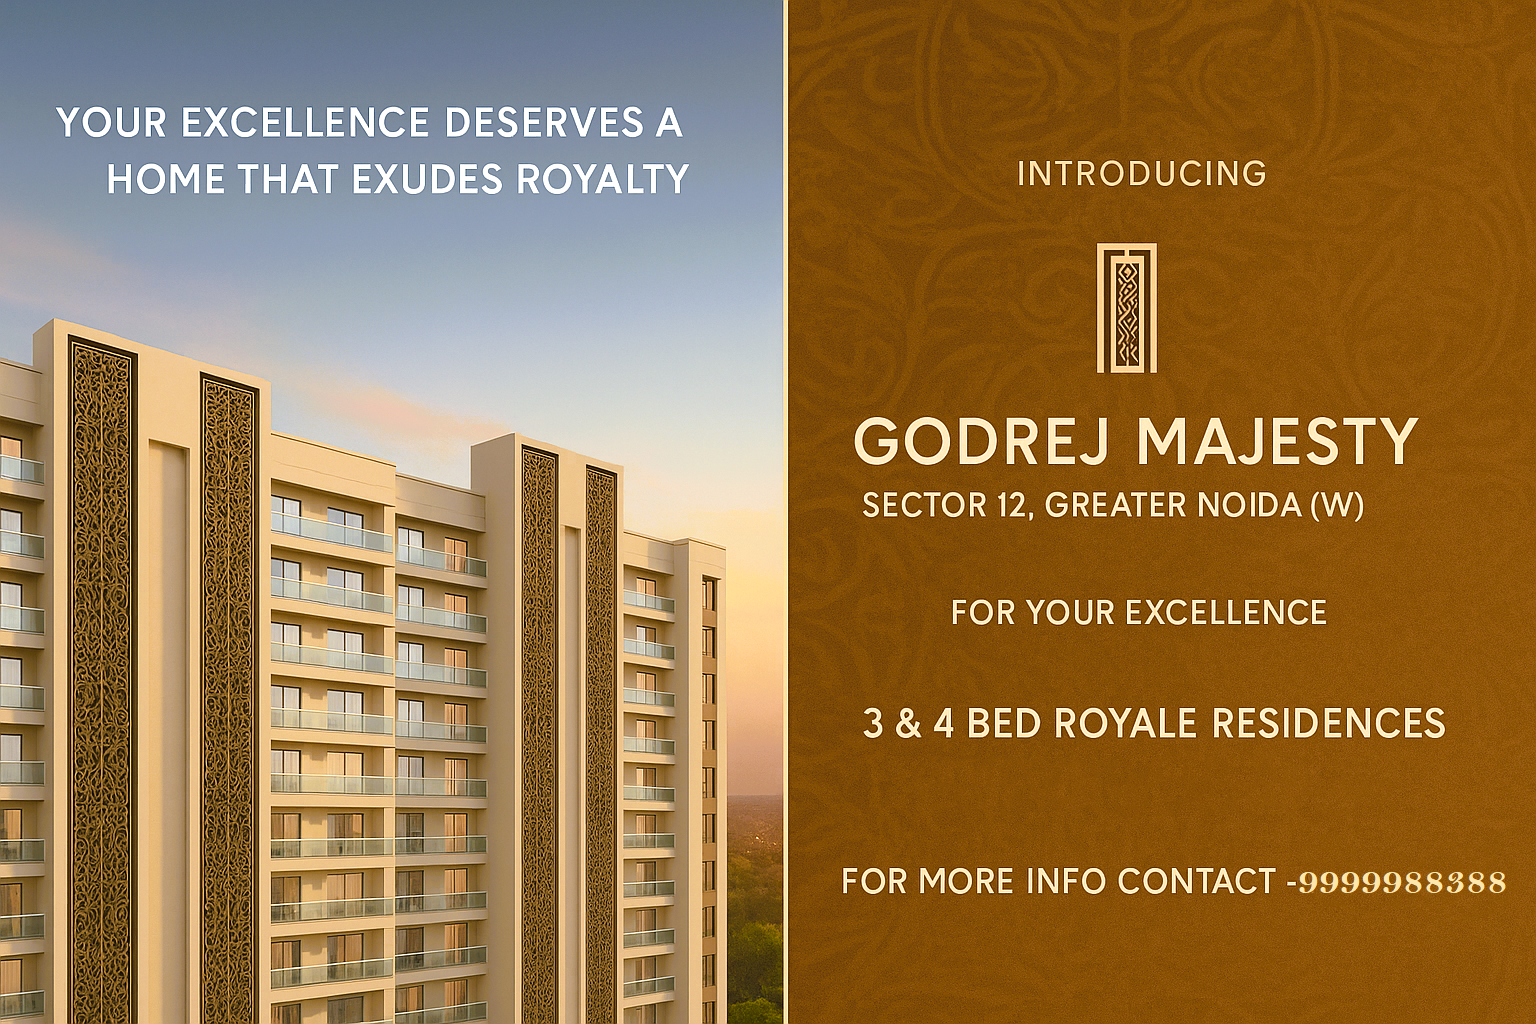
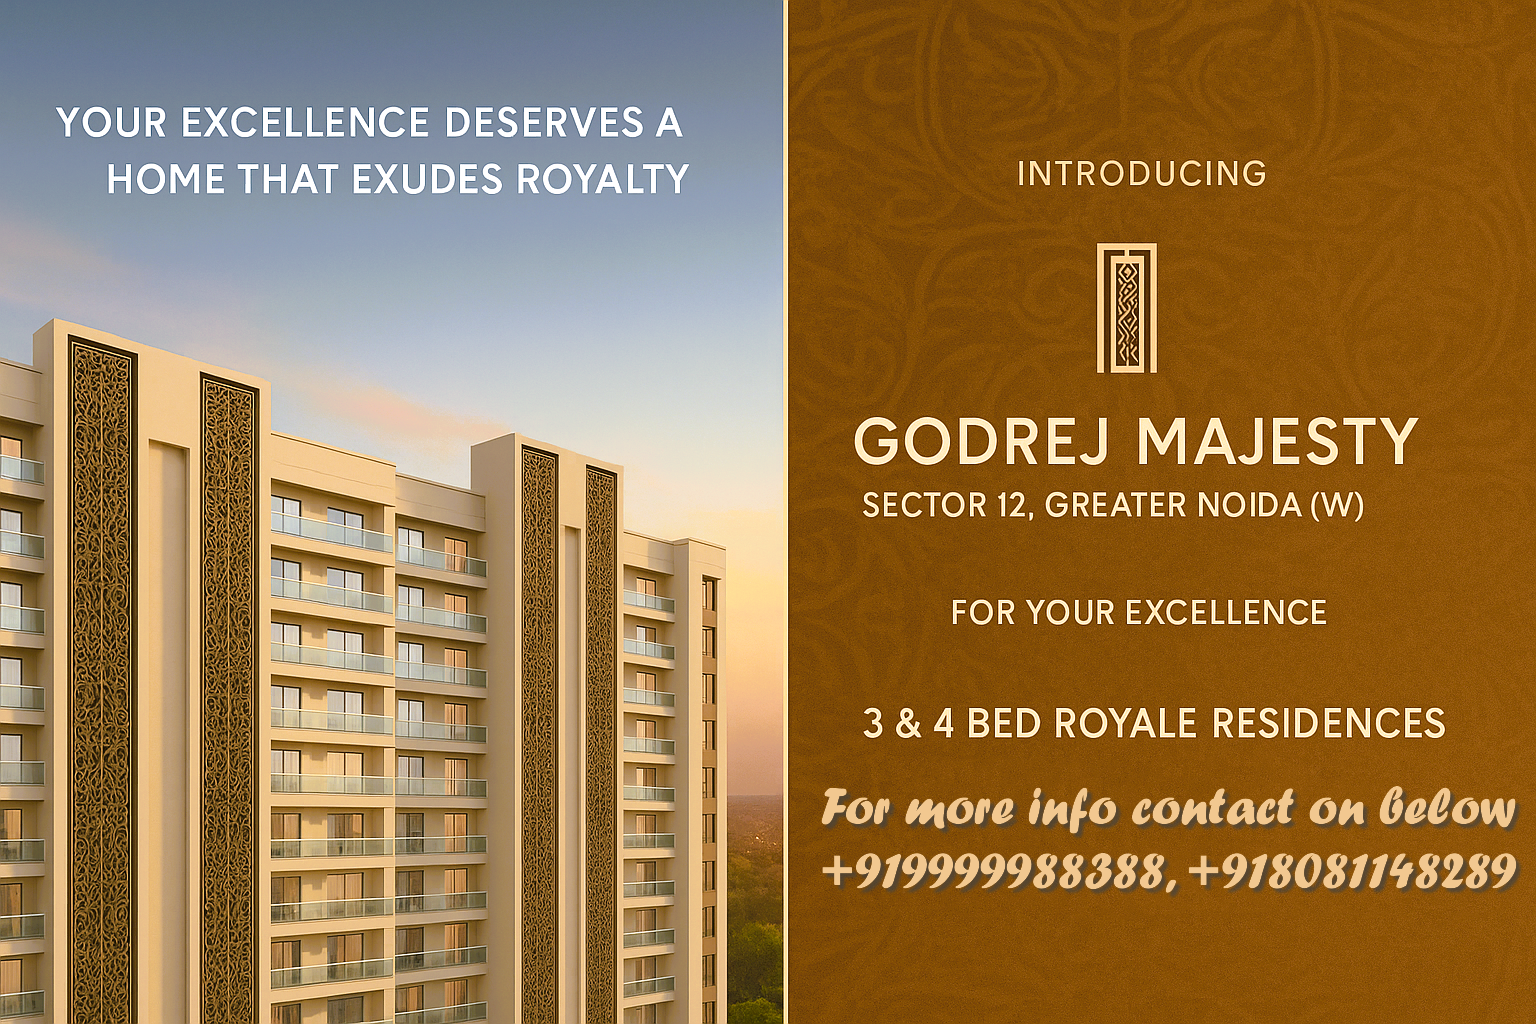
contact updated

Changed region(s): [[0.5312, 0.75, 1.0, 0.875]]

diff --git a/src/app/components/Amenities.tsx b/src/app/components/Amenities.tsx
@@ -50,9 +50,8 @@ const Amenities: React.FC = () => {
                     </div>
                   );
                 })}
-            </div>
-            <div className='flex flex-col gap-8'><b><i>For more info contact - 9999988388</i></b></div>
-        </div>
+            </div>            
+        </div>        
         <div>
           <Image
             alt="Godrej Majesty Apartments in sec 12, Greater Noida West"
@@ -64,6 +63,7 @@ const Amenities: React.FC = () => {
           />
         </div>
       </div>
+      <div><b><i>For more info contact - +919999988388, +918081148289</i></b></div>
     </div>
   );
 };

diff --git a/src/app/page.tsx b/src/app/page.tsx
@@ -40,7 +40,7 @@ export default function Home() {
               <HighLights2 />
             </div>
           </div>
-          <div className='mx-auto w-max mt-5'><b><i>For more info contact - 9999988388</i></b></div>
+          <div className='mx-auto w-max mt-5'><b><i>For more info contact - +919999988388, +918081148289</i></b></div>
         </section>
         <section id="pricelist" className="section-style">
           <h1 className="heading-style mb-9">Price List</h1>

diff --git a/src/app/components/AboutUs.tsx b/src/app/components/AboutUs.tsx
@@ -36,7 +36,7 @@ const AboutUs : React.FC = () => {
                 appeal, making it an ideal residential choice in the region.
                 <br />
                 <br />
-                <b><i>For more info contact - 9999988388</i></b>
+                <b><i>For more info contact - +919999988388, +918081148289</i></b>
             </p>
         </div>
         <div className="flex flex-col">

diff --git a/src/app/components/PriceList.tsx b/src/app/components/PriceList.tsx
@@ -33,7 +33,7 @@ const PriceList: React.FC = () => {
         </div>
       </div>
     </div>
-    <div className='mx-auto w-max mt-5'><b><i>For more info contact - 9999988388</i></b></div>
+    <div className='mx-auto w-max mt-5'><b><i>For more info contact - +919999988388, +918081148289</i></b></div>
     </>
   );
 };
